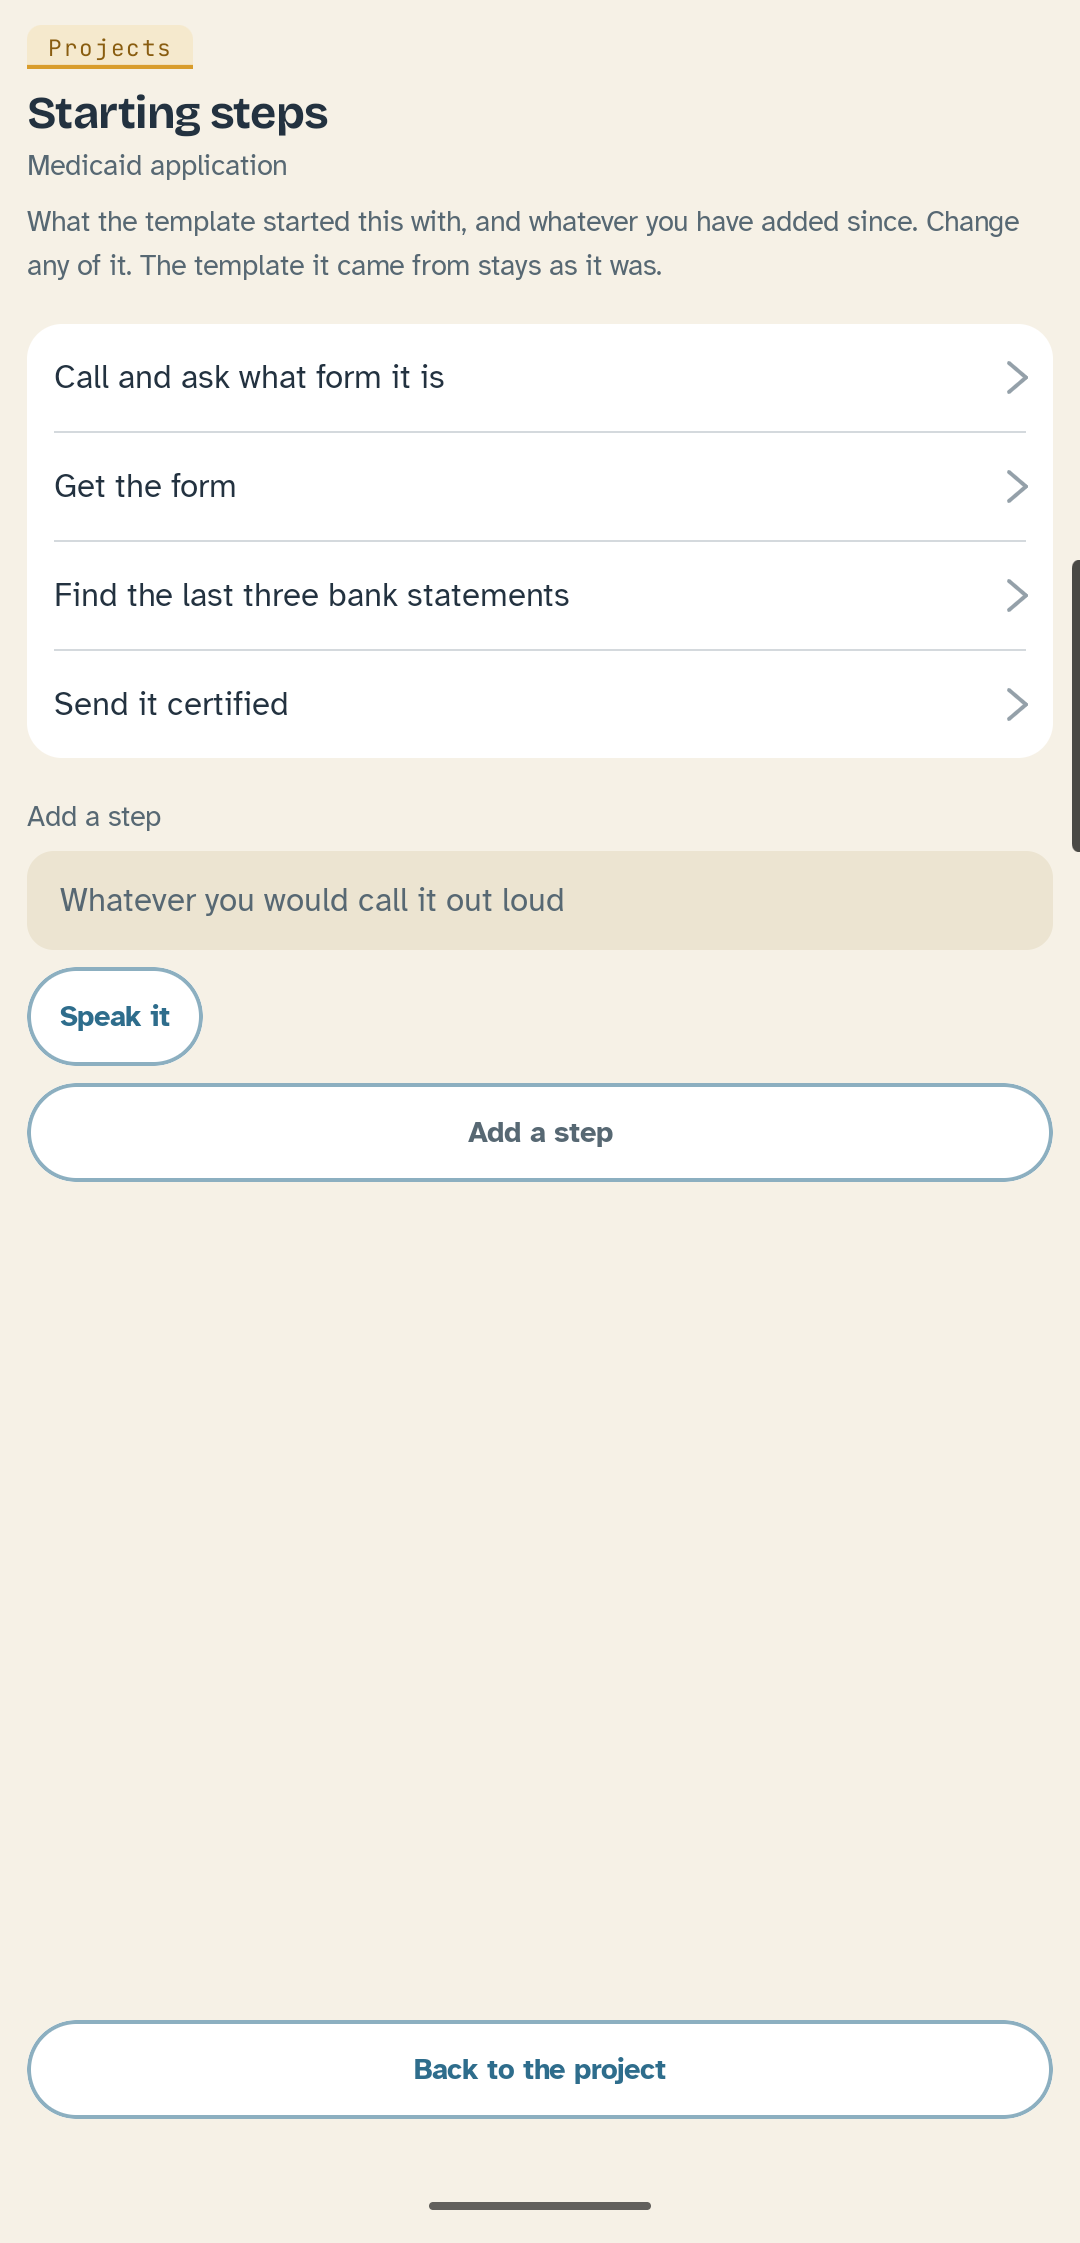
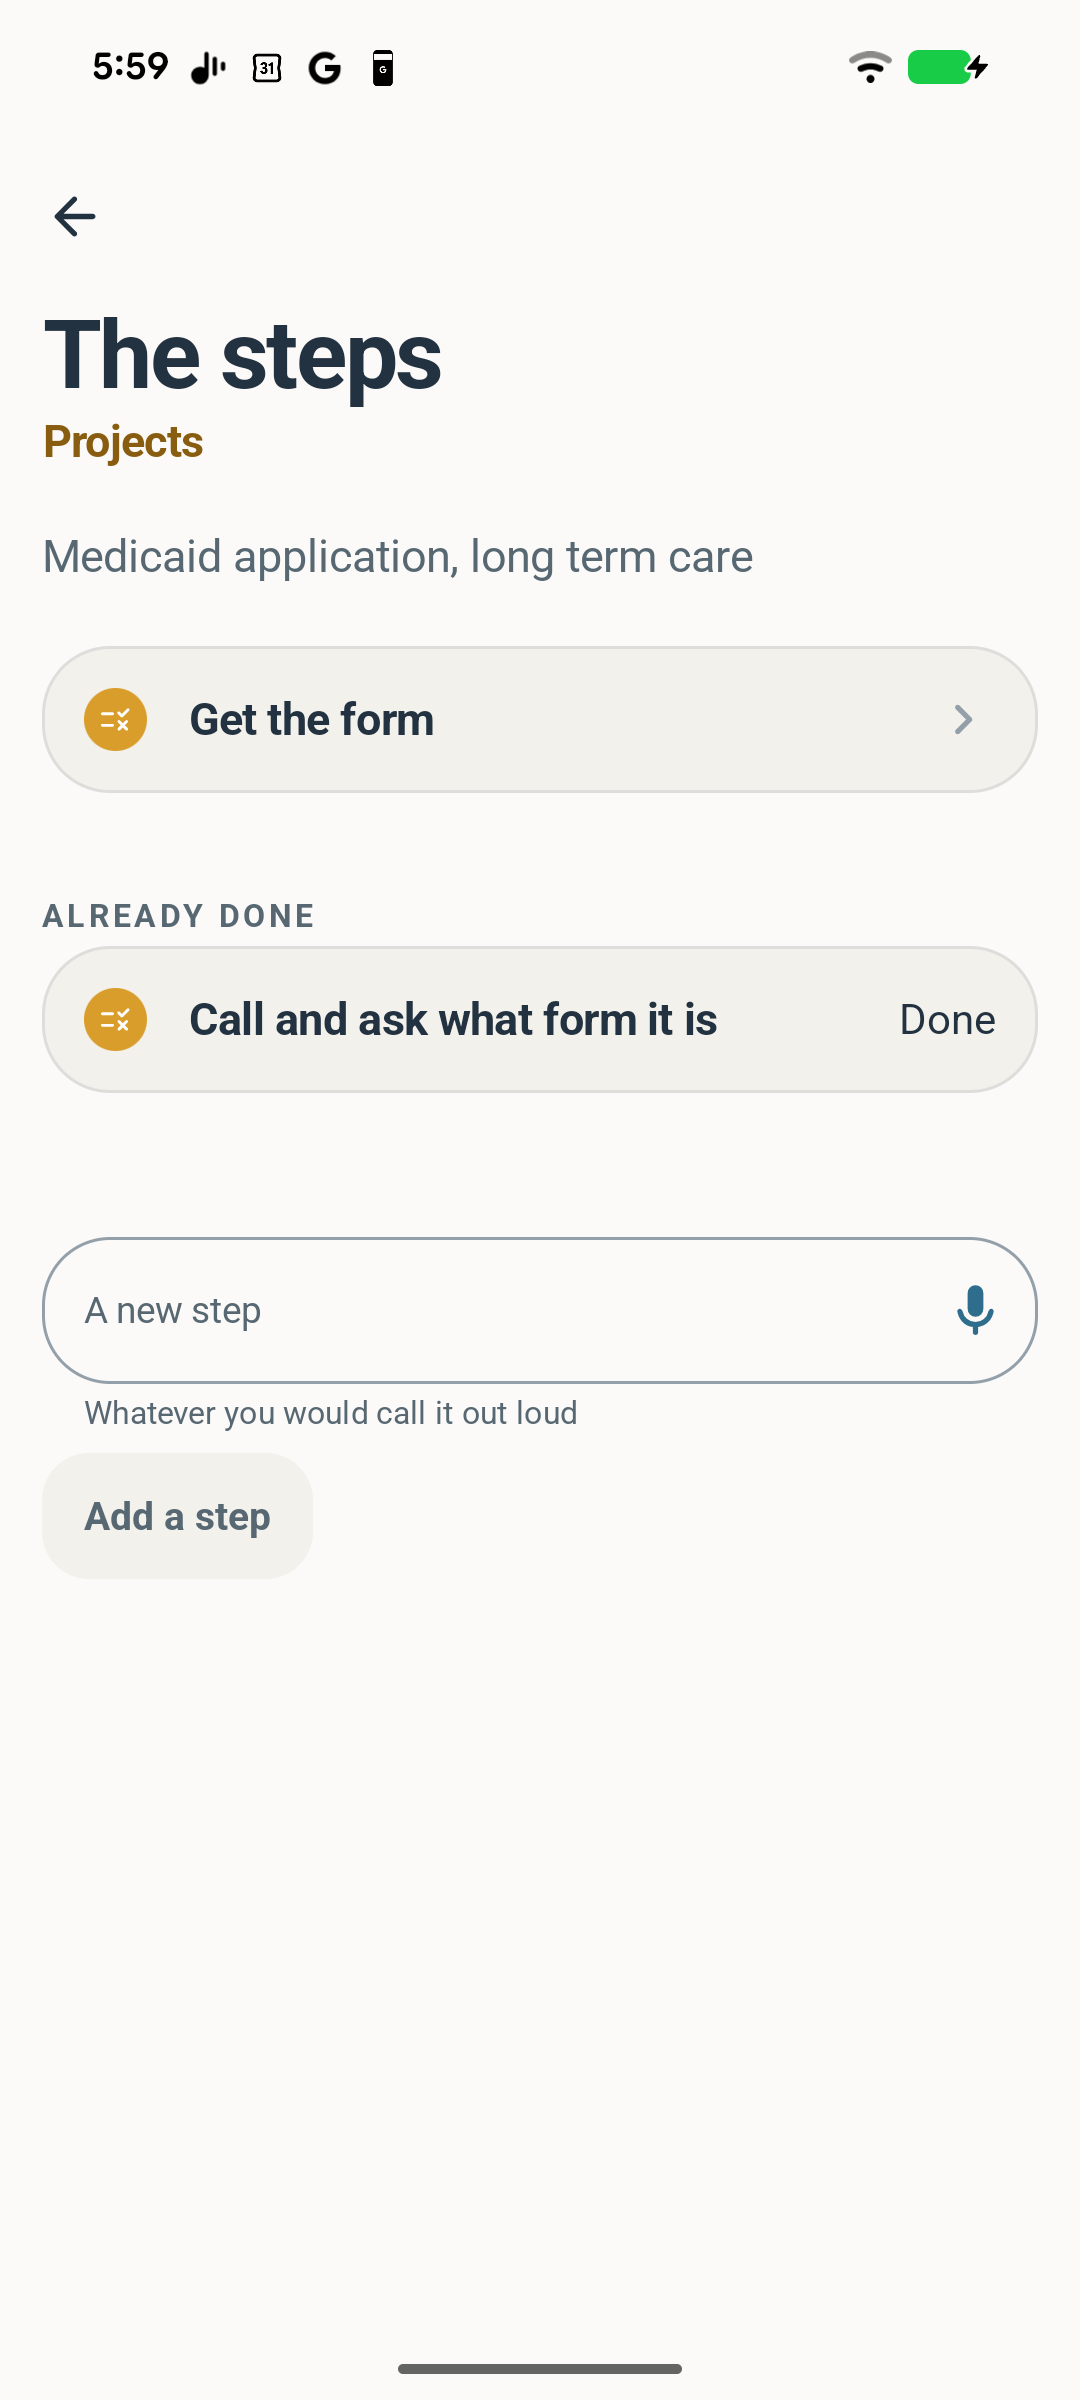
The steps screen answers the eleven, and its way back stops lying
Reached from the project's own tile since D164, it still said Back to setup, so
it promised to return somebody to a settings screen they had never opened. Back
always went to the right place; the words did not, and for a reader the words
are the whole of it. The label follows the path now, because setup can still
open it.

Against the eleven it was a 7: no color anywhere, a paragraph about where the
steps came from taking the top of the screen, and nothing leading. The paragraph
is gone for the reason D206 took the same sentence off the project screen, rule
20. Every row carries the section's mark at card size, which every other list in
the notebook already does. What is done folds under its own quiet label, the
grammar the medications and projects lists already use, so the steps somebody
still has in front of them are the ones at the top. It is not a count and never
a meter, rule 13.

Titled The steps rather than Starting steps, because half of them are not.

Lint caught the new optional parameter sitting before modifier, which is the
trap HANDOFF section 8 names. tools/verify.sh exit 0, ProjectStepsScreenTest 8
tests 0 failures.

Claude-Session: https://claude.ai/code/session_01EDVeq2bM3wBwGduzvLHqtA

diff --git a/android/app/src/main/kotlin/com/kamsiob/healthtrail/ui/screens/ProjectStepsScreen.kt b/android/app/src/main/kotlin/com/kamsiob/healthtrail/ui/screens/ProjectStepsScreen.kt
@@ -20,6 +20,8 @@ import com.kamsiob.healthtrail.ui.theme.HealthTrail
 import com.kamsiob.healthtrail.ui.theme.Space
 import com.kamsiob.healthtrail.ui.v4.Action
 import com.kamsiob.healthtrail.ui.v4.Block
+import com.kamsiob.healthtrail.ui.theme.hueFor
+import com.kamsiob.healthtrail.ui.components.Symbols
 import com.kamsiob.healthtrail.ui.v4.DictatableField
 import com.kamsiob.healthtrail.ui.v4.Eyebrow
 import com.kamsiob.healthtrail.ui.v4.ListRow
@@ -29,6 +31,7 @@ import com.kamsiob.healthtrail.ui.v4.RowDivider
 object ProjectStepsTags {
     const val NAME = "project-steps"
     const val ADD_FIELD = "project-steps-add-field"
+    const val DONE_FOLD = "project-steps-done"
     const val ADD = "project-steps-add"
     fun step(id: String) = "project-steps-$id"
 }
@@ -62,6 +65,16 @@ fun ProjectStepsScreen(
     onOpen: (Repository.ProjectStep) -> Unit,
     onBack: () -> Unit,
     modifier: Modifier = Modifier,
+    /**
+     * What the way back is called, because there are two ways in.
+     *
+     * **D164 gave the steps a door on the project itself** and the label stayed
+     * "Back to setup", so a screen reached from the project's own file promised
+     * to return somebody to a settings screen they had never opened. Back
+     * always went to the right place; the words did not, and for a reader the
+     * words are the whole of it, rule 19.
+     */
+    backKey: String = "section.back.project",
 ) {
     val strings = LocalStrings.current
     val colors = HealthTrail.colors
@@ -72,23 +85,30 @@ fun ProjectStepsScreen(
     Page(
         title = strings["project.steps.title"],
         onBack = onBack,
-        backLabel = strings["section.back.setup"],
+        backLabel = strings[backKey],
         modifier = modifier.testTag(SectionTags.root(ProjectStepsTags.NAME)),
         eyebrow = strings["notebook.section.projects"],
         subtitle = Bidi.isolate(projectName),
     ) {
-        item {
-            Text(
-                text = strings["project.steps.lead"],
-                style = type.bodyM,
-                color = colors.ink2,
-            )
-        }
+        // **No paragraph about where the steps came from.** "What the template
+        // started this with, and whatever you have added since" sat above the
+        // steps themselves, said nothing about this project, and is the app
+        // explaining its own organizing scheme in the space the content should
+        // have, which is rule 20. It is the same sentence D206 took off the
+        // project's own screen, and it goes for the same reason.
 
         // **Clustered here too where the steps carry areas**, so the list a
         // person edits is the list they read on the project. Two orders for
         // one set of steps is two mental models for one thing.
-        val clustered = steps.groupBy { it.cluster?.takeIf { c -> c.isNotBlank() } }
+        //
+        // **What is done sits under its own quiet label**, which is the grammar
+        // the medications list and the projects list already use for what is
+        // finished, and it means the steps somebody still has in front of them
+        // are the ones at the top. **It is not a count and never a meter**,
+        // rule 13: nothing here says how many of somebody's steps are ticked.
+        val live = steps.filterNot { it.isDone }
+        val done = steps.filter { it.isDone }
+        val clustered = live.groupBy { it.cluster?.takeIf { c -> c.isNotBlank() } }
         val named = clustered.filterKeys { it != null }
         val loose = clustered[null].orEmpty()
 
@@ -123,6 +143,26 @@ fun ProjectStepsScreen(
                             step = step,
                             onOpen = { onOpen(step) },
                             divider = index != loose.lastIndex,
+                        )
+                    }
+                }
+            }
+        }
+
+        if (done.isNotEmpty()) {
+            item {
+                Spacer(Modifier.height(Space.m))
+                Eyebrow(
+                    text = strings["projects.done_fold"],
+                    modifier = Modifier.testTag(ProjectStepsTags.DONE_FOLD),
+                )
+                Spacer(Modifier.height(Space.xs))
+                Block(padding = Space.none) {
+                    done.forEachIndexed { index, step ->
+                        StepEditRow(
+                            step = step,
+                            onOpen = { onOpen(step) },
+                            divider = index != done.lastIndex,
                         )
                     }
                 }
@@ -187,6 +227,14 @@ private fun StepEditRow(
     val strings = LocalStrings.current
     Column {
         ListRow(
+            // **The mark every other list in the notebook carries.** D198 item
+            // 4: this screen was the one list drawn with no color in it at all,
+            // which is what rule 15's "no page is overwhelmingly one color"
+            // rules out from the other direction. The card size, not the row
+            // size, because every row here is the same kind. #388 finding 8.
+            mark = Symbols.standingInstructions,
+            markSize = Space.markCard,
+            markHue = hueFor(Repository.Section.PROJECTS),
             title = Bidi.isolate(step.text),
             support = step.note?.takeIf { it.isNotBlank() }?.let { Bidi.isolate(it) }
                 ?: step.handlerLabel?.let { strings("project.step.handled_by", "who" to it) },

diff --git a/android/app/src/main/kotlin/com/kamsiob/healthtrail/ui/NotebookOverlays.kt b/android/app/src/main/kotlin/com/kamsiob/healthtrail/ui/NotebookOverlays.kt
@@ -1612,6 +1612,9 @@ internal fun ProjectOverlays(
                 steps = projectSteps,
                 onAdd = { addingStep = currentProject.id to it },
                 onOpen = { stepUnderEdit = it },
+                // **Whichever door was used.** Setup can still open this, so
+                // the label follows the path rather than asserting one of them.
+                backKey = if (setupOpen) "section.back.setup" else "section.back.project",
                 onBack = { stepsOpen = false },
             )
 
